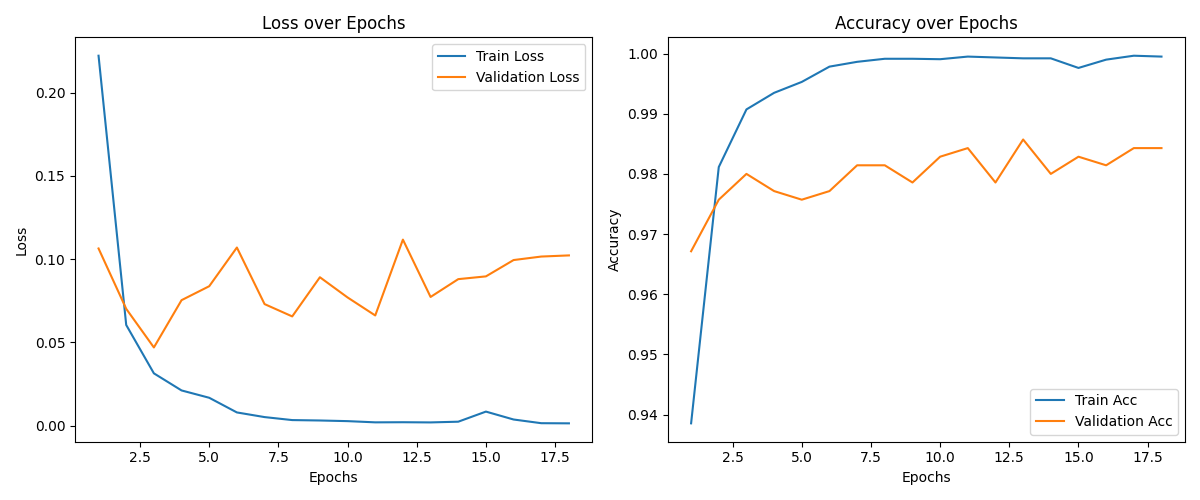
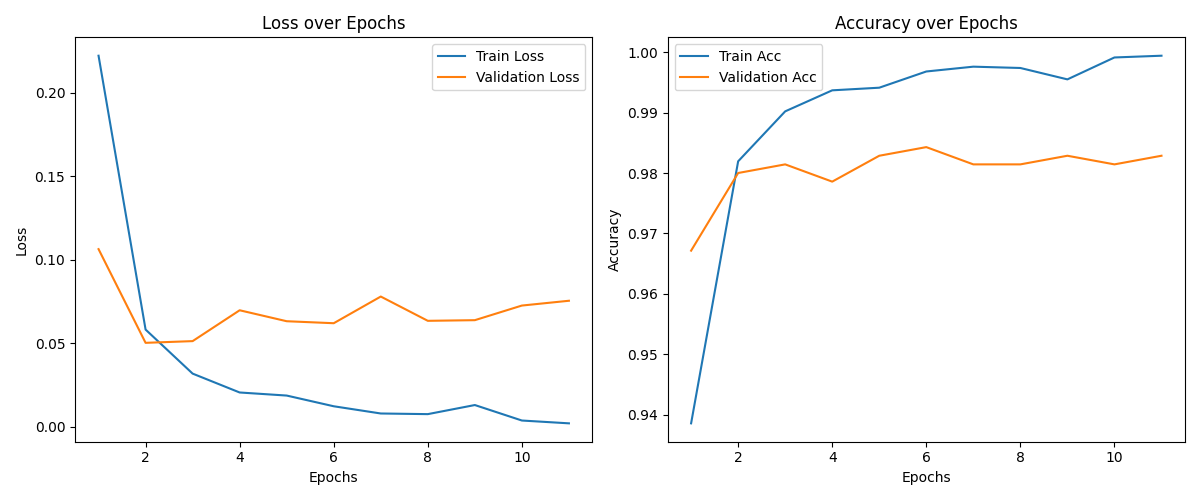
updated readme

diff --git a/src/predict.py b/src/predict.py
@@ -91,7 +91,8 @@ if __name__ == "__main__":
                 
             result = predictor.predict(sentence)
             print(f"Intent:     {result['intent']}")
-            print(f"Confidence: {result['confidence'] * 100:.2f}%\\n")
+            print(f"Confidence: {result['confidence'] * 100:.2f}%")
+            print("") # Newline for spacing
             
     except KeyboardInterrupt:
-        print("\\nExiting. Have a great day!")
+        print("\nExiting. Have a great day!")